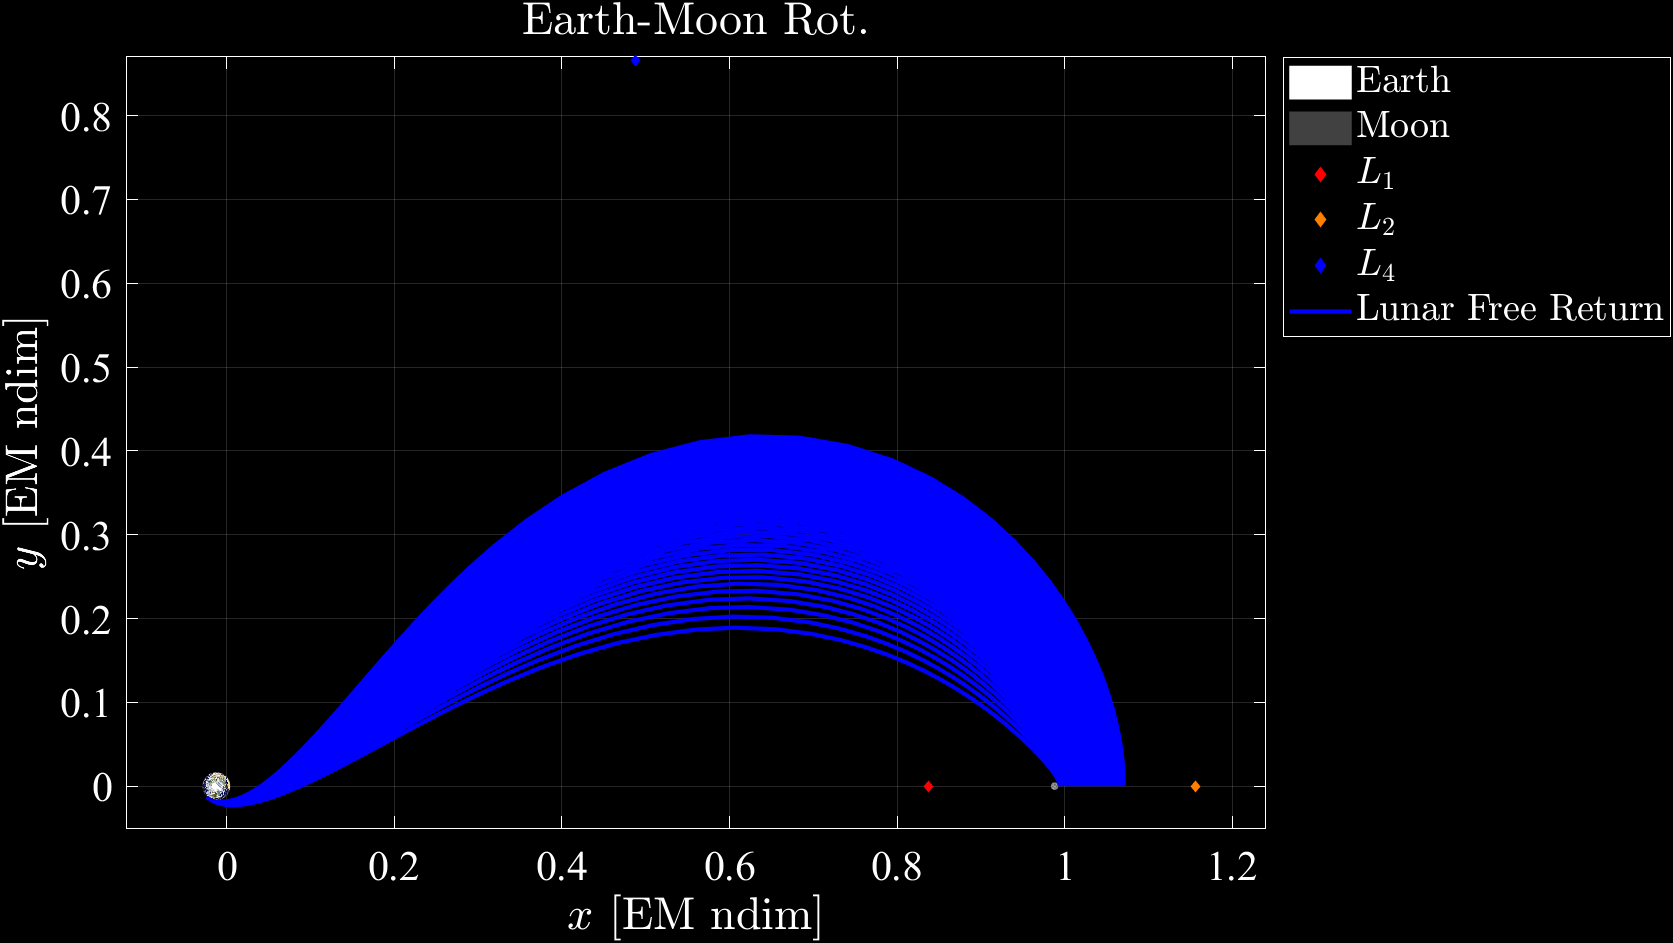
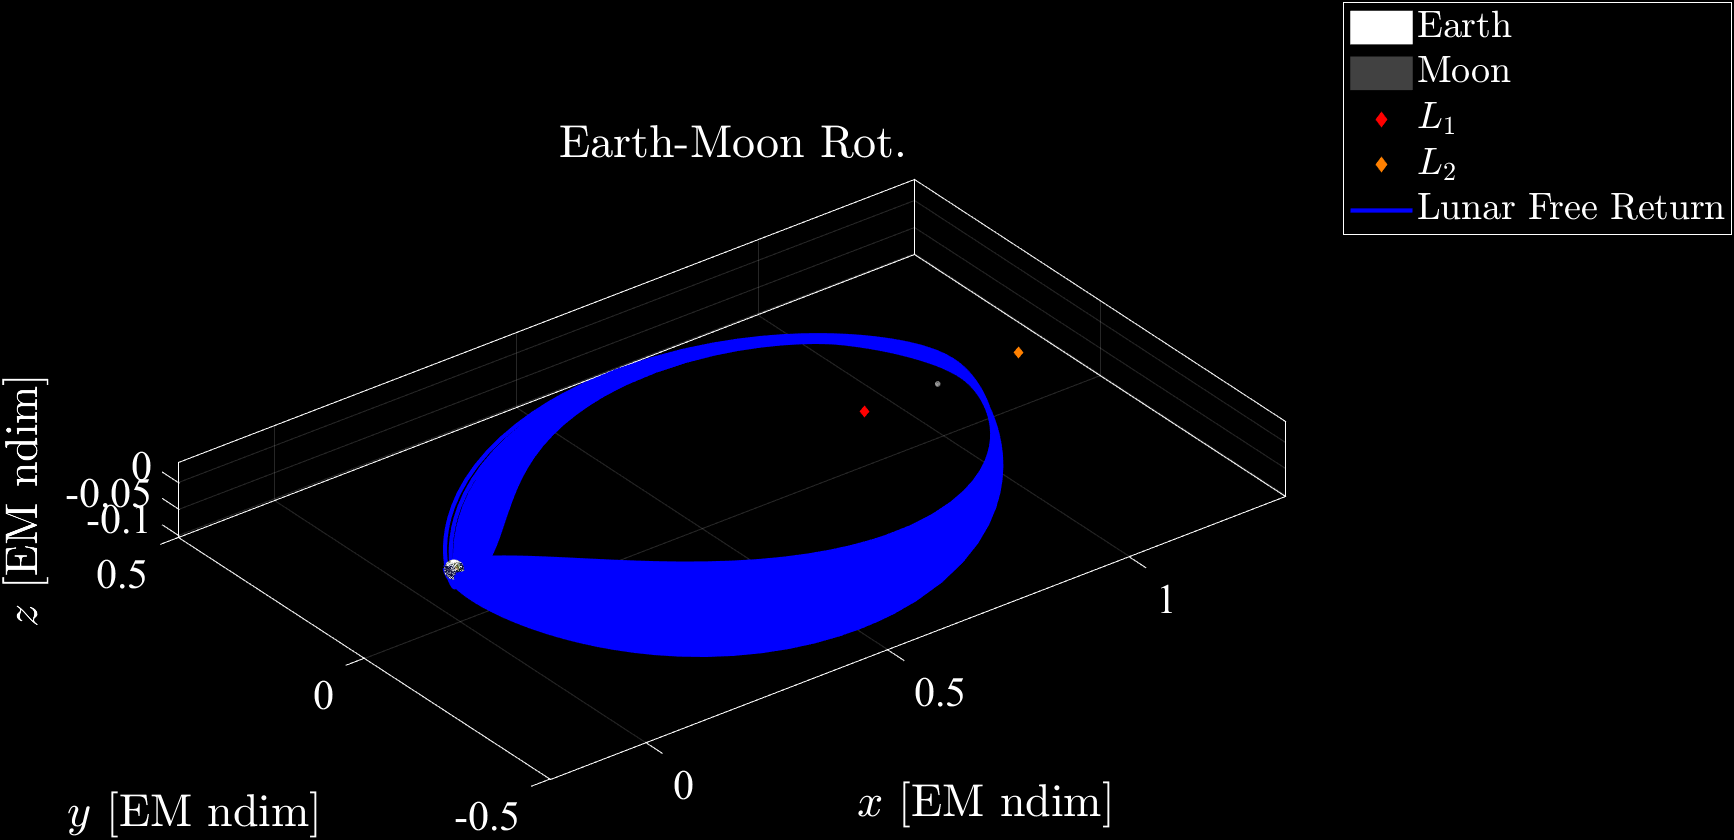
Making presentation

diff --git a/PlotCR3BPTraj.m b/PlotCR3BPTraj.m
@@ -1,13 +1,10 @@
 %%% Plot CR3BP Trajectory
 %%% Jonathan Richmond
 %%% C: 17 January 2025
-%%% U: 2 April 2025
+%%% U: 22 July 2025
 
 clear
-trajs = load('../PhDScripts/Output/CR3BPTraj.mat');
-trajNames = fieldnames(trajs);
-numSegs = length(trajNames);
-IC = [trajs.(trajNames{1}).x(1), trajs.(trajNames{1}).y(1), trajs.(trajNames{1}).z(1), trajs.(trajNames{1}).xdot(1), trajs.(trajNames{1}).ydot(1), trajs.(trajNames{1}).zdot(1)];
+load('../PhDScripts/Output/CR3BPTraj.mat');
 
 %% Earth-Moon Data
 gmE = 3.9860043543609593E5; % Earth gravitational parameter [km^3/s^2]
@@ -76,26 +73,20 @@ scatter3(a2, 0, 0, 20, [1 0.5 0], 'filled', 'd', 'DisplayName', "$L_{2}$")
 % scatter3(a3, 0, 0, 20, 'g', 'filled', 'd', 'DisplayName', "$L_{3}$")
 % scatter3(a45, b4, 0, 20, 'b', 'filled', 'd', 'DisplayName', "$L_{4}$")
 % scatter3(a45, b5, 0, 20, [1 0 1], 'filled', 'd', 'DisplayName', "$L_{5}$")
-for j = 1:numSegs/2
-    plot3(trajs.(trajNames{j}).x, trajs.(trajNames{j}).y, trajs.(trajNames{j}).z, 'b', 'HandleVisibility', 'off')
-    scatter3(trajs.(trajNames{j}).x(1), trajs.(trajNames{j}).y(1), trajs.(trajNames{j}).z(1), 50, 'w', 'filled', 'HandleVisibility', 'off')
-end
-for j = (numSegs/2+1):numSegs
-    plot3(trajs.(trajNames{j}).x, trajs.(trajNames{j}).y, trajs.(trajNames{j}).z, 'b', 'HandleVisibility', 'off')
-    scatter3(trajs.(trajNames{j}).x(end), trajs.(trajNames{j}).y(end), trajs.(trajNames{j}).z(end), 50, 'w', 'filled', 'HandleVisibility', 'off')
-end
+plot3(CR3BPTraj.x, CR3BPTraj.y, CR3BPTraj.z, 'b', 'DisplayName', "Traj.")
+plot3(CR3BPTraj.x, -CR3BPTraj.y, CR3BPTraj.z, 'b', 'HandleVisibility', 'off')
 axis equal
 grid on
 xlabel("$x$ [EM ndim]", 'Interpreter', 'latex')
 ylabel("$y$ [EM ndim]", 'Interpreter', 'latex')
 zlabel("$z$ [EM ndim]", 'Interpreter', 'latex')
-title("Earth-Moon 3:2 Resonant (3:5 Syn.)", 'Interpreter', 'latex')
+title("Earth-Moon Rot.", 'Interpreter', 'latex')
 leg = legend('Location', 'bestoutside', 'Interpreter', 'latex');
-set(gca, 'Color', 'k');
+drawnow;
+set(leg.EntryContainer.NodeChildren(end).Icon.Transform.Children.Children, 'ColorData', uint8([25; 25; 85; 255]))
+set(gca, 'Color', 'w');
 view(3)
-ax = gca;
-for j = 1:numSegs
-    plot2DProjections(ax, [2 2 1], trajs.(trajNames{j}).x, trajs.(trajNames{j}).y, trajs.(trajNames{j}).z, 0.15);
-end
+% ax = gca;
+% plot2DProjections(ax, [2 2 1], CR3BPTraj.x, CR3BPTraj.y, CR3BPTraj.z, 0.15);
 hold off
-% exportgraphics(fig1, 'PlotCR3BPTraj_1.png', 'BackgroundColor', 'k')
+% exportgraphics(fig1, 'PlotCR3BPTraj_1.png', 'BackgroundColor', 'w')

diff --git a/Family.m b/Family.m
@@ -3,7 +3,7 @@
 %%% C: 3 July 2025
 
 clear
-load('../PhDScripts/FamilyData/CR3BPEMLFRPros.mat')
+load('../PhDScripts/FamilyData/CR3BPEMLFRProsSpatial.mat')
 k = length(LFRPros.trajs);
 
 %% Earth-Moon Data
@@ -68,17 +68,18 @@ set(Moon, 'DisplayName', "Moon")
 scatter3(a1, 0, 0, 20, 'r', 'filled', 'd', 'DisplayName', "$L_{1}$")
 scatter3(a2, 0, 0, 20, [1 0.5 0], 'filled', 'd', 'DisplayName', "$L_{2}$")
 % scatter3(a3, 0, 0, 20, 'g', 'filled', 'd', 'DisplayName', "$L_{3}$")
-scatter3(a45, b4, 0, 20, 'b', 'filled', 'd', 'DisplayName', "$L_{4}$")
+% scatter3(a45, b4, 0, 20, 'b', 'filled', 'd', 'DisplayName', "$L_{4}$")
 % scatter3(a45, b5, 0, 20, [1 0 1], 'filled', 'd', 'DisplayName', "$L_{5}$")
 for j = 1:40:k
     traj = plot3(LFRPros.trajs{j}.x, LFRPros.trajs{j}.y, LFRPros.trajs{j}.z, 'b', 'HandleVisibility', 'off', 'DisplayName', "Lunar Free Return");
+    plot3(LFRPros.trajs{j}.x, -LFRPros.trajs{j}.y, LFRPros.trajs{j}.z, 'b', 'HandleVisibility', 'off')
     if j == 1
         set(traj, 'HandleVisibility', 'on')
     end
 end
 axis equal
 % axis
-axis([-0.12 1.24 -0.05 0.87])
+% axis([-0.12 1.24 -0.05 0.87])
 grid on
 xlabel("$x$ [EM ndim]", 'Interpreter', 'latex')
 ylabel("$y$ [EM ndim]", 'Interpreter', 'latex')
@@ -86,6 +87,6 @@ zlabel("$z$ [EM ndim]", 'Interpreter', 'latex')
 title("Earth-Moon Rot.", 'Interpreter', 'latex')
 legend('Location', 'bestoutside', 'Interpreter', 'latex');
 set(gca, 'Color', 'k');
-view(2)
+view(3)
 hold off
 % exportgraphics(fig1, 'Family_1.png', 'BackgroundColor', 'k')
